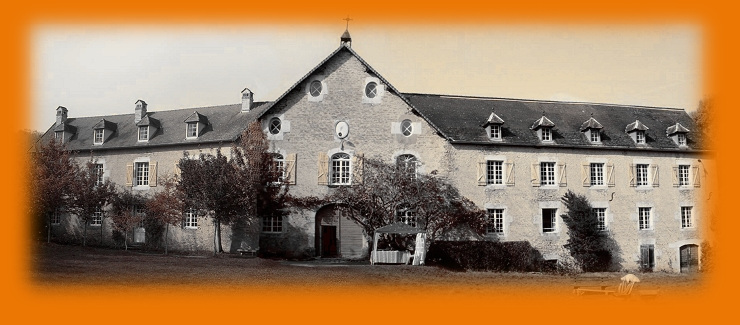
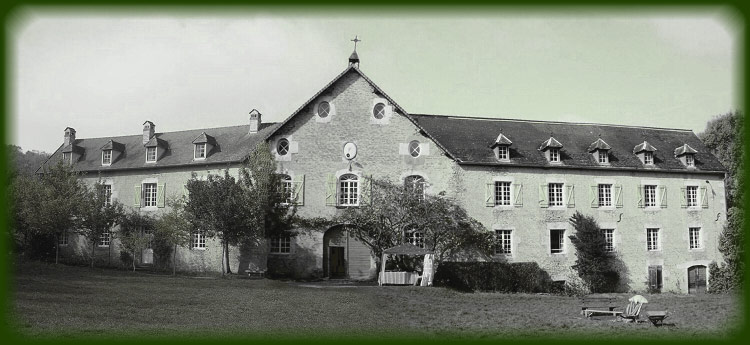
2011 style!

diff --git a/valfahrt.css b/valfahrt.css
@@ -1,5 +1,6 @@
 body {
-	background-color:#ec7703;
+	background-color:#204000;
+	color:#ccc;
 	margin:0;
 	padding:0;
 }
@@ -22,28 +23,22 @@ body, * {
 
 div#content a {
 	letter-spacing:0.1em;
-	color:#040b5c;
-	text-decoration:none;
-	border-bottom:1px solid #040b5c;
+	color:#60bf00;
+	text-decoration:underline;
 }
 
 div#content a:hover, div#content a:focus, div#content a:active {
-	color:#0818c4;
-	border-color:#0818c4;
-}
-
-div#header, div#footer {
-	background:url("ornament.png") center;
+	color:#7fff00;
 }
 
 div#footer {
-	background-repeat:no-repeat;
+	background:url("ornament.png") center no-repeat;
 	height:250px;
 }
 
 a#logo {
 	background:url("logo.png") center no-repeat;
-	height:230px;
+	height:276px;
 	width:750px;
 	margin:0 auto;
 	display:block;
@@ -59,7 +54,7 @@ div#content {
 }
 
 div#subtitle {
-	border:1px #d8570f;
+	border:1px #7fff00;
 	border-style:solid none;
 }
 
@@ -109,13 +104,13 @@ input.moveup {
 }
 
 .error {
-	color:#d60909;
+	color:#7f0000;
 }
 
 p.error {
 	padding:0.4em;
-	background-color:#edb277;
-	border:1px solid #d60909;
+	background-color:#ff5c00;
+	border:1px solid #7f0000;
 	-moz-border-radius:1em;
 	text-align:center;
 	font-weight:bold;
